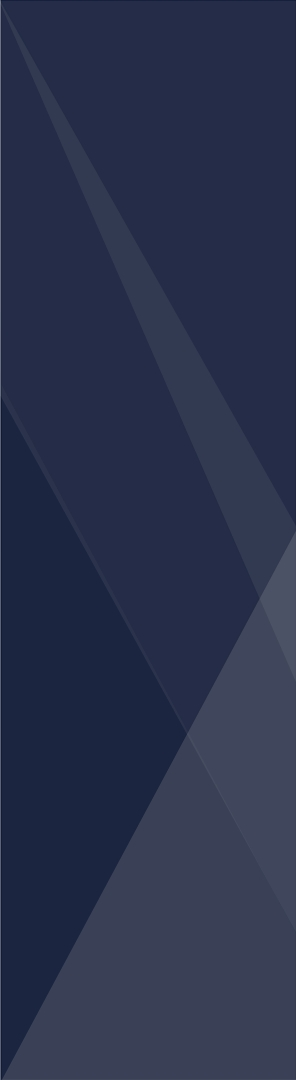
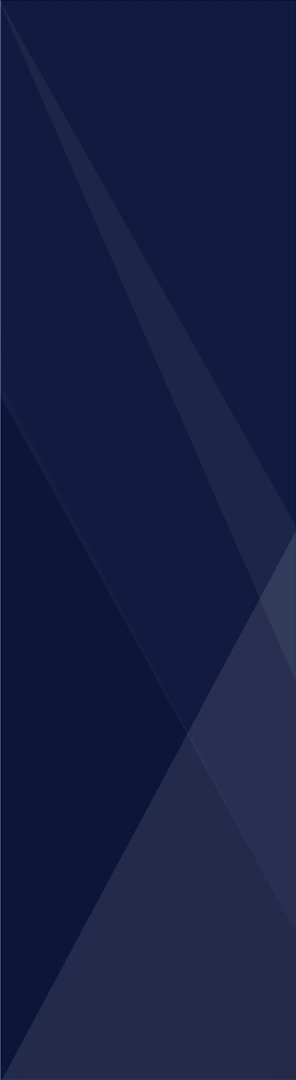
updated code with filter final

diff --git a/src/components/LogTable/LogTable.jsx b/src/components/LogTable/LogTable.jsx
@@ -6,7 +6,7 @@ import {
   faCalendar,
   faCaretDown,
   faDatabase,
-  faRecycle,
+  faSync,
 } from "@fortawesome/free-solid-svg-icons";
 import Style from "./LogTable.module.scss";
 import { Navbar, SideBar } from "../../utils/NavSideBar";
@@ -230,7 +230,7 @@ export default function LogTable() {
                   className={Style.filterGraphFirstSction}
                   onClick={RefreshTableOnlyFun}
                 >
-                  <FontAwesomeIcon icon={faRecycle} />
+                  <FontAwesomeIcon icon={faSync} />
                 </section>
               </Col>
               <Col xl={6} md={6} sm={6} className={Style.filterWithDate}>

diff --git a/src/components/LogTable/LogTable.module.scss b/src/components/LogTable/LogTable.module.scss
@@ -39,10 +39,18 @@
       display: flex;
       align-items: center;
       justify-content: space-between;
+      & p:hover {
+        color: $activehrefText;
+        transition-duration: 0.5s;
+      }
     }
     & input {
       margin-left: 10px;
     }
+  }
+  &:hover {
+    color: $activehrefText;
+    transition-duration: 0.5s;
   }
 }
 
@@ -111,4 +119,12 @@
   align-items: center;
   width: 40px;
   height: auto !important;
+
+  & svg {
+    &:hover {
+      transform: rotate(180deg) !important;
+      transition-duration: 0.5s;
+      color: $backgroundColor;
+    }
+  }
 }

diff --git a/src/utils/NavSideBar.module.scss b/src/utils/NavSideBar.module.scss
@@ -202,7 +202,6 @@
 // siderbar
 .sideBar {
   background-image: url("../../public//assets/images/background.jpg");
-  filter: contrast(150%);
   background-repeat: no-repeat;
   background-size: 100% 100%;
   background-color: $sideBarBackgroundColor;
@@ -273,7 +272,6 @@
   transition-duration: 0.5s !important;
   overflow: hidden;
   background-image: url("../../public//assets/images/background.jpg");
-  filter: contrast(150%);
   background-repeat: no-repeat;
 
   background-color: $sideBarBackgroundColor;
